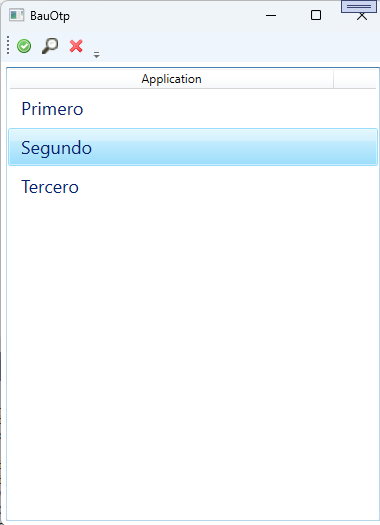
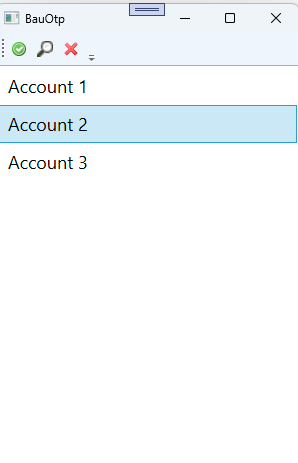
Readme

Changed region(s): [[0.0, 0.0, 1.0, 1.0]]

diff --git a/src/BauOTP/Views/OtpGeneratorView.xaml b/src/BauOTP/Views/OtpGeneratorView.xaml
@@ -65,8 +65,13 @@
 				</Grid.RowDefinitions>
 				<Label Grid.Row="0" Grid.Column="0" Margin="5" Content="Counter:"/>
 				<TextBox Grid.Row="0" Grid.Column="1" Margin="5" VerticalContentAlignment="Center" Text="{Binding Path=Counter,UpdateSourceTrigger=PropertyChanged}"/>
-				<TextBlock Grid.Row="1" Grid.Column="0" Grid.ColumnSpan="2" Text="{Binding Path=HotpCode}" 
-					HorizontalAlignment="Center" FontSize="20" FontWeight="Bold"/>
+				<StackPanel Orientation="Horizontal" Grid.Row="1" Grid.Column="0" Grid.ColumnSpan="2" HorizontalAlignment="Center">
+					<TextBlock Text="{Binding Path=HotpCode}" HorizontalAlignment="Center" FontSize="20" FontWeight="Bold"/>
+					<Button Margin="5" ToolTip="Copy" BorderBrush="Transparent" BorderThickness="0" Background="Transparent"
+						Click="cmdCopyHotp_Click">
+							<Image Width="16" Height="16" Source="/Resources/Copy.png"/>
+					</Button>
+				</StackPanel>
 			</Grid>
 		</GroupBox>
 		<GroupBox Grid.Row="1" Grid.Column="1" Header="TOTP">
@@ -84,8 +89,14 @@
 				<Label Grid.Row="0" Grid.Column="0" Margin="5" Content="Interval:"/>
 				<TextBox Grid.Row="0" Grid.Column="1" Grid.ColumnSpan="2" Margin="5" 
 					VerticalContentAlignment="Center" Text="{Binding Path=Interval,UpdateSourceTrigger=PropertyChanged}"/>
-				<TextBlock Grid.Row="1" Grid.Column="0" Grid.ColumnSpan="2" Text="{Binding Path=TotpCode}" 
-					HorizontalAlignment="Center" FontSize="20" FontWeight="Bold"/>
+				<StackPanel Grid.Row="1" Grid.Column="0" Grid.ColumnSpan="2" Orientation="Horizontal" HorizontalAlignment="Center">
+					<TextBlock Text="{Binding Path=TotpCode}" 
+						HorizontalAlignment="Center" FontSize="20" FontWeight="Bold"/>
+					<Button Margin="5" ToolTip="Copy" BorderBrush="Transparent" BorderThickness="0" Background="Transparent"
+						Click="cmdCopyTotp_Click">
+						<Image Width="16" Height="16" Source="/Resources/Copy.png"/>
+					</Button>
+				</StackPanel>
 				<TextBlock Grid.Row="1" Grid.Column="2" Text="{Binding Path=RemainingTime}" 
 					HorizontalAlignment="Center" VerticalAlignment="Center" FontSize="16" FontWeight="Bold"
 					Foreground="{Binding Path=RemainingTimeColor,Converter={StaticResource MVVMColorConverter}}" 

diff --git a/src/BauOTP/MainWindow.xaml b/src/BauOTP/MainWindow.xaml
@@ -27,20 +27,16 @@
 				</Button>
 			</ToolBar>
 		</ToolBarTray>
-		<ListView Grid.Row="1" Grid.Column="0" Margin="5" ItemsSource="{Binding Path=OtpListViewModel.Items}" SelectedItem="{Binding Path=OtpListViewModel.SelectedItem}">
-			<ListView.View>
-				<GridView>
-					<GridViewColumn Width="500" Header="Application">
-						<GridViewColumn.CellTemplate>
-							<DataTemplate>
-								<TextBlock Margin="5" VerticalAlignment="Center" HorizontalAlignment="Left" 
-									FontSize="18"
-									Text="{Binding Path=Text}" />
-							</DataTemplate>
-						</GridViewColumn.CellTemplate>
-					</GridViewColumn>
-				</GridView>
-			</ListView.View>
-		</ListView>
+
+		<ListBox Grid.Row="1" Grid.Column="0" ItemsSource="{Binding Path=OtpListViewModel.Items}" SelectedItem="{Binding Path=OtpListViewModel.SelectedItem}"
+			MouseDoubleClick="lstAccounts_MouseDoubleClick">
+			<ListBox.ItemTemplate>
+				<DataTemplate>
+					<TextBlock Margin="5" VerticalAlignment="Center" HorizontalAlignment="Left" 
+						FontSize="18"
+						Text="{Binding Path=Text}" />
+				</DataTemplate>
+			</ListBox.ItemTemplate>
+		</ListBox>
 	</Grid>
 </Window>

diff --git a/src/BauOTP/Views/OtpGeneratorView.xaml.cs b/src/BauOTP/Views/OtpGeneratorView.xaml.cs
@@ -21,7 +21,25 @@ public partial class OtpGeneratorView : Window
 	}
 
 	/// <summary>
+	///		Copia un código en el portapapeles
+	/// </summary>
+	private void CopyToClipboard(string code)
+	{
+		Clipboard.SetText(code);
+	}
+
+	/// <summary>
 	///		ViewModel
 	/// </summary>
 	public GeneratorViewModel ViewModel { get; }
+
+	private void cmdCopyHotp_Click(object sender, RoutedEventArgs e)
+	{
+		CopyToClipboard(ViewModel.HotpCode);
+    }
+
+	private void cmdCopyTotp_Click(object sender, RoutedEventArgs e)
+	{
+		CopyToClipboard(ViewModel.TotpCode);
+    }
 }

diff --git a/src/BauOTP/MainWindow.xaml.cs b/src/BauOTP/MainWindow.xaml.cs
@@ -33,6 +33,11 @@ public partial class MainWindow : Window
 		InitWindow();
 	}
 
+	private void lstAccounts_MouseDoubleClick(object sender, System.Windows.Input.MouseButtonEventArgs e)
+	{
+		MainViewModel.OpenCommand.Execute(null);
+    }
+
 	/// <summary>
 	///		Manager de ViewModels de la aplicación de ejemplo
 	/// </summary>
